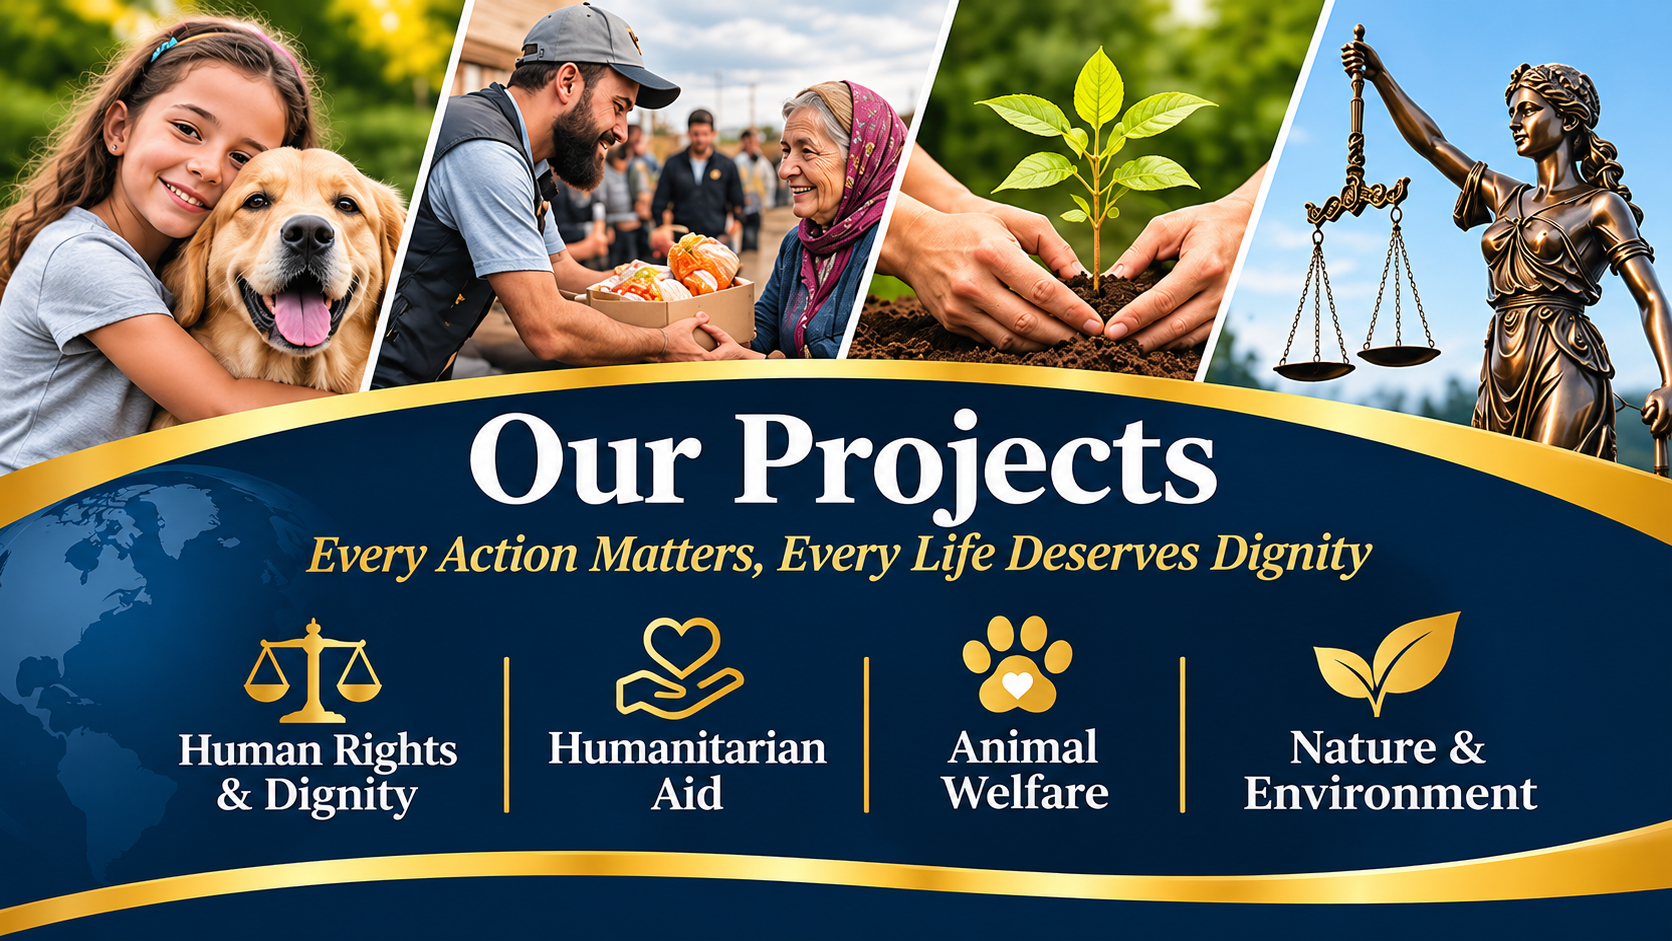
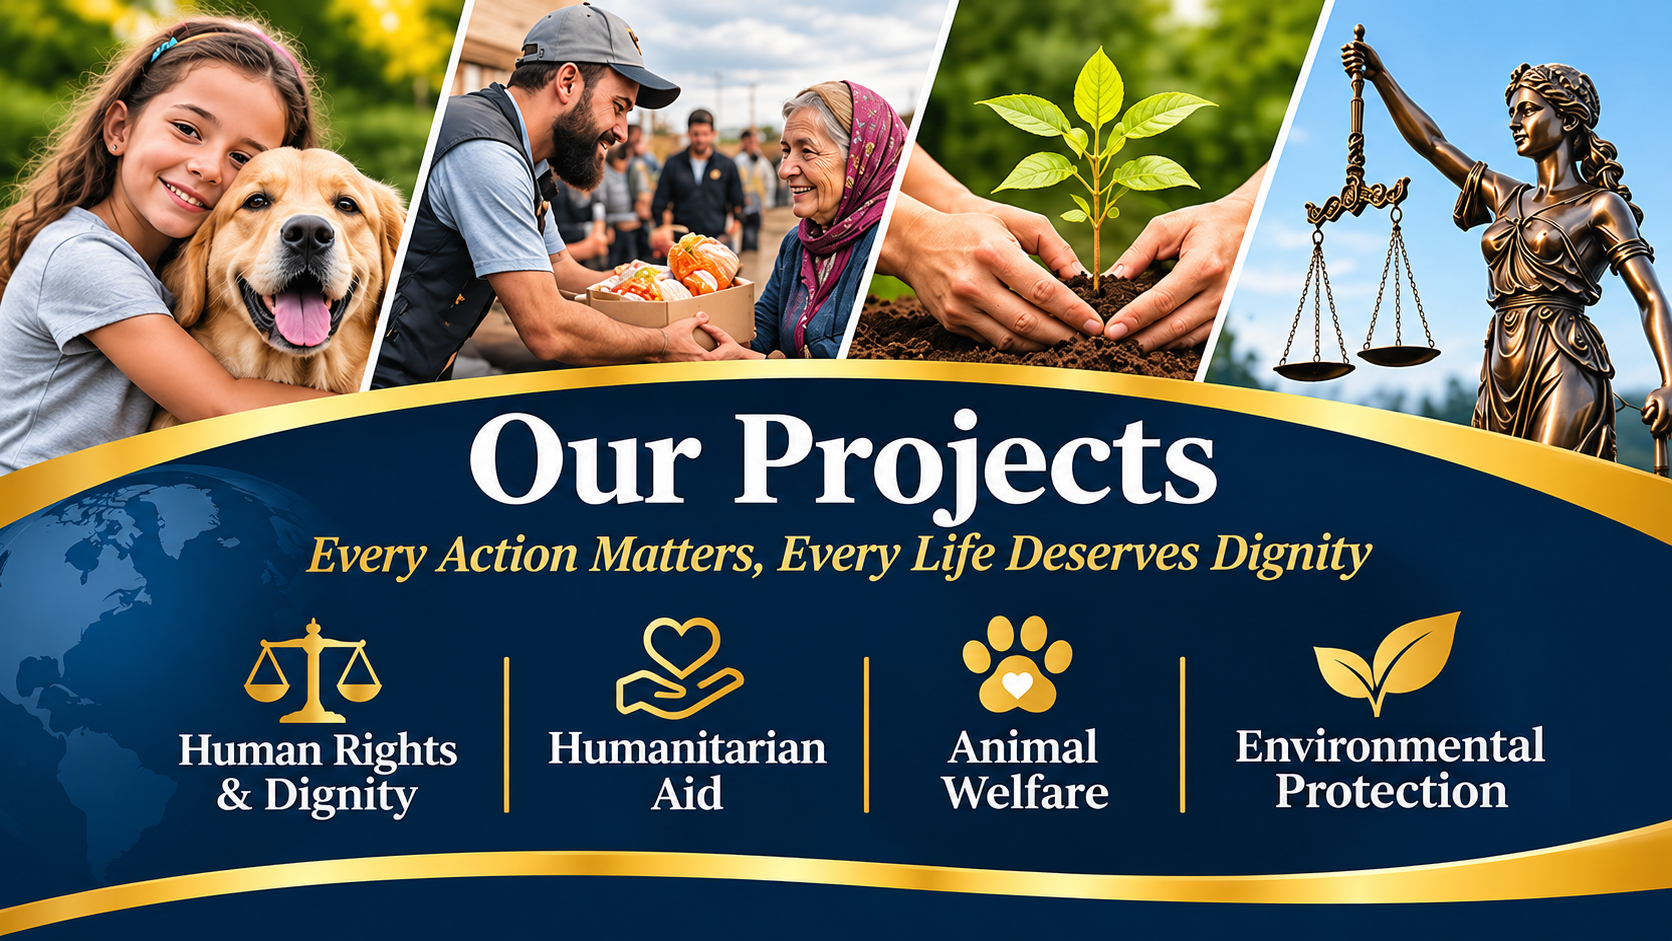
[skip ci] Rename fourth Projects hero cause to Environmental Protection
Replace only the fourth label in the existing hero artwork, using a two-line Environmental / Protection treatment within the original column. Preserve the existing canvas, imagery, icons, colors and layout; pixel comparison confirms zero changes outside the 350x94 label rectangle. Update matching alt text in source/generated Projects HTML and the artwork verification hash.

Validation: npm test passed all 99 tests; inspected the full artwork and its mobile-width scaled rendering. The existing responsive CSS and image dimensions are unchanged. No payment, registry, production Worker or deployment changes.

Changed region(s): [[0.7153, 0.7705, 0.933, 0.8629]]

diff --git a/public/projects.html b/public/projects.html
@@ -17,7 +17,7 @@
     <div class="header-brand"><img class="header-logo" src="603250A8-B1C4-4533-848C-4028A6E0AD49.png" alt="Your Global Voice official logo" width="1254" height="1254"><a class="wordmark" href="index.html">Your Global Voice</a></div>
     <details class="mobile-menu"><summary>Menu <span aria-hidden="true">+</span></summary><nav aria-label="Mobile navigation"><a href="index.html">Home</a><a href="about.html">About Us</a><a href="mission.html">Our Mission</a><a href="purposes.html">Our Causes</a><a href="projects.html" aria-current="page">Our Projects</a><a href="get-involved.html">Get Involved</a><a href="donate.html">Donate</a><a href="contact.html">Contact Us</a></nav></details><nav class="desktop-nav" aria-label="Main navigation"><a href="index.html">Home</a><a href="about.html">About Us</a><a href="mission.html">Our Mission</a><a href="purposes.html">Our Causes</a><a href="projects.html" aria-current="page">Our Projects</a><a href="get-involved.html">Get Involved</a><a href="donate.html">Donate</a><a href="contact.html">Contact Us</a></nav>
   </div></header>
-  <main id="main" tabindex="-1"><section class="page-intro projects-hero"><h1 class="projects-hero-title">Our Projects</h1><img class="projects-hero-image" src="2E318DBA-71A7-4D42-9FC2-5E723868F9CC.png" width="1672" height="941" alt="Our Projects. Every Action Matters, Every Life Deserves Dignity. Human Rights &amp; Dignity; Humanitarian Aid; Animal Welfare; Nature &amp; Environment." fetchpriority="high" decoding="async"></section><section class="project-initiatives" aria-labelledby="project-initiatives-heading">
+  <main id="main" tabindex="-1"><section class="page-intro projects-hero"><h1 class="projects-hero-title">Our Projects</h1><img class="projects-hero-image" src="2E318DBA-71A7-4D42-9FC2-5E723868F9CC.png" width="1672" height="941" alt="Our Projects. Every Action Matters, Every Life Deserves Dignity. Human Rights &amp; Dignity; Humanitarian Aid; Animal Welfare; Environmental Protection." fetchpriority="high" decoding="async"></section><section class="project-initiatives" aria-labelledby="project-initiatives-heading">
 <h2 id="project-initiatives-heading"><span>Our Projects &amp; Initiatives</span></h2>
 <div class="project-dignity-layout">
 <article class="project-dignity-info" aria-labelledby="project-dignity-heading"><p class="eyebrow project-purpose-label">HUMAN RIGHTS &amp; DIGNITY PROJECT</p><h3 id="project-dignity-heading"><svg class="project-scales-icon" viewBox="0 0 48 48" fill="none" stroke="currentColor" stroke-width="1.8" stroke-linecap="round" stroke-linejoin="round" aria-hidden="true" focusable="false"><path d="M24 5v35M8 13h32M18 43h12M24 40l-5 3m5-3 5 3M10 14 3 29h14l-7-15Zm28 0-7 15h14l-7-15Z"/><path d="M3 29a7 7 0 0 0 14 0m14 0a7 7 0 0 0 14 0" fill="currentColor"/><circle cx="24" cy="10" r="3" fill="currentColor"/></svg><span>Voices for Dignity</span></h3>
